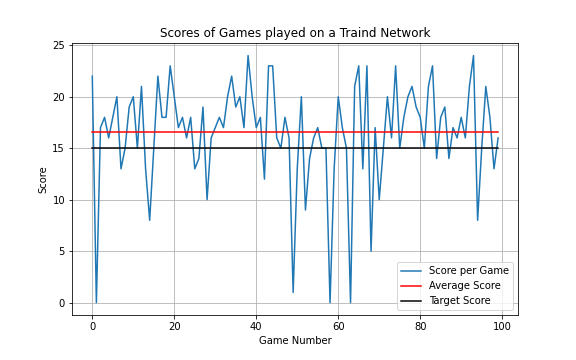
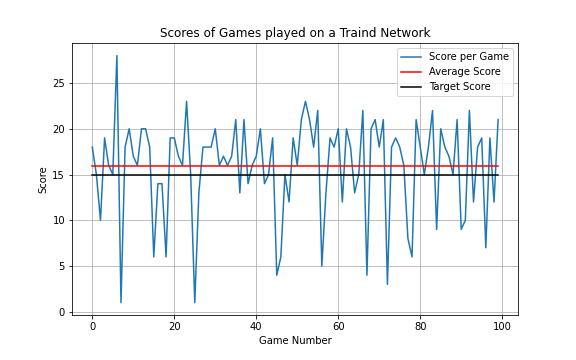
Update

diff --git a/Report.md b/Report.md
@@ -37,7 +37,7 @@ The Deep Q-Network consistently solved the environment within 400 episodes succe
 
 
 #### <u>Testing the Trained Network</u>
-After running 100 iterations of the trained network, an average score of 16.53 was achieved.
+After running 100 iterations of the trained network, an average score of 15.91 was achieved.
 
 ![GIF of Trained Network](Images/TainedNetworkScores.png)
 
